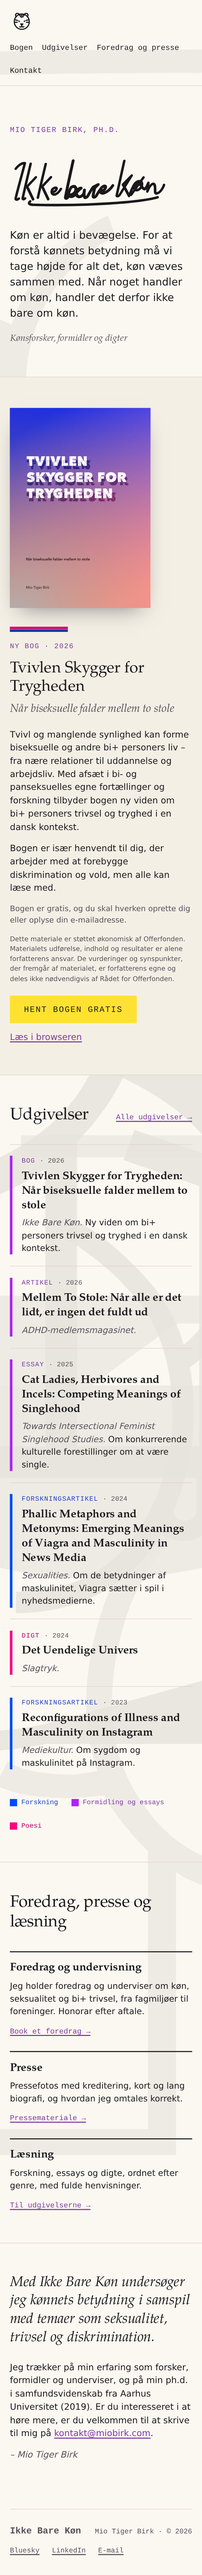
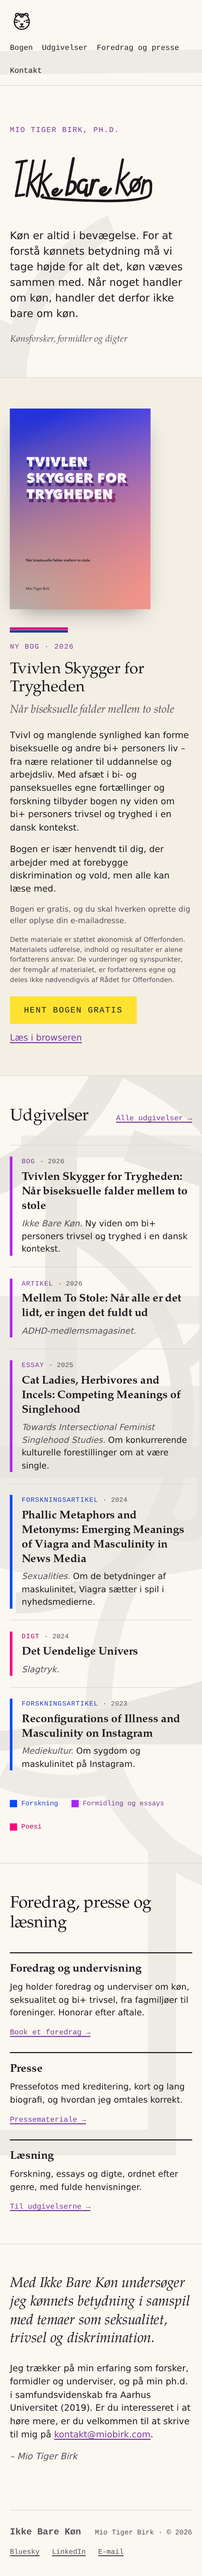
A researched hand for the tag
Ole asked for a better tag style, researched. Three research passes
(handstyle schools, the elegant-monoline calligraffiti register, and
per-letter tag construction) produced a style spec, recorded in
TYPOGRAPHY-COLOUR.md: one constant lean with parallel straight stems
on an even metre, downstroke-first ductus with visible retraces,
platform-serif I, one signature diagonal shared by every k arm and
the oe slash, blunt stops except two whips, and a single finish move
in the n's leg sweeping back under the line. The register is
Copenhagen: New York letter logic executed with graphic precision,
which suits both the client and the studio. The reversed-3 e from the
American canon was tried and rejected: it reads as the digit 3 in
lowercase Danish text; the cursive loop e stays.

Claude-Session: https://claude.ai/code/session_01J3ibStbM354Uyysr7SDB7m

diff --git a/design/directions/retning-7-overlappet.html b/design/directions/retning-7-overlappet.html
@@ -110,17 +110,19 @@ a:focus-visible{outline:2.5px solid var(--ink);outline-offset:3px}
 @keyframes fesseSlow{to{transform:translate3d(0,18rem,0)}}
 @keyframes fesseMid{to{transform:translate3d(0,44rem,0)}}
 @media (prefers-reduced-motion: reduce){.fesse-layer{animation:none!important}}
-/* The hero title: Ikke bare køn written as a handstyle tag with a
-   thick black marker, drawn on quickly at load. Ten strokes: whole
-   words run continuously with the pen lifting only where a real hand
-   lifts (the k arms, the slash of the oe, the return underline).
-   Pure SVG and CSS, no JavaScript: each path carries pathLength="1",
-   so a dash offset animated 1 to 0 draws the stroke; --d is its
-   duration, --t its start. The emphasis on "bare" is a change of
-   style: the word is written in one unbroken stroke, larger, looser
-   and pressed harder, nothing is added. */
+/* The hero title: Ikke bare køn as a handstyle tag, drawn on quickly
+   at load. The hand follows the researched craft rules (see
+   TYPOGRAPHY-COLOUR.md, "The hand"): one constant lean from the skew,
+   parallel stems on an even metre, downstroke-first ductus with
+   visible retraces, one signature diagonal shared by every k arm and
+   the slash of the oe, blunt stops everywhere except two whips, and
+   exactly one finish move: the n's leg sweeping back under the whole
+   line. Pure SVG and CSS, no JavaScript: each path carries
+   pathLength="1", so a dash offset animated 1 to 0 draws the stroke;
+   --d is its duration, --t its start. The emphasis on "bare" is a
+   change of style: larger, looser, pressed harder, nothing added. */
 .hero{position:relative;overflow:hidden}
-.tagline{display:block;width:min(46rem,94%);height:auto;transform:rotate(-2deg) skewX(-8deg);margin-left:-.5rem}
+.tagline{display:block;width:min(46rem,94%);height:auto;transform:skewX(-8deg);margin-left:-.5rem}
 .tagline path{fill:none;stroke:var(--ink);stroke-width:13;stroke-linecap:round;stroke-linejoin:round;
   stroke-dasharray:1;stroke-dashoffset:1;
   animation:tagdraw var(--d,.2s) linear var(--t,0s) forwards}
@@ -286,59 +288,29 @@ footer .flinks{display:flex;gap:1.5rem}
   <section class="hero">
     <div class="wrap">
       <p class="kicker">Mio Tiger Birk, ph.d.</p>
-      <h1><span class="sr-only">Ikke bare køn</span><svg class="tagline" viewBox="0 0 880 310" aria-hidden="true" focusable="false" xmlns="http://www.w3.org/2000/svg">
+      <h1><span class="sr-only">Ikke bare køn</span><svg class="tagline" viewBox="0 0 900 320" aria-hidden="true" focusable="false" xmlns="http://www.w3.org/2000/svg">
         <g>
-          <path pathLength="1" style="--d:.1s;--t:0s" d="M 44 84 C 58 64 76 54 88 58 C 78 122 66 186 60 232 C 58 242 66 246 76 238"/>
-          <path pathLength="1" style="--d:.07s;--t:.11s" d="M 118 62 C 108 138 100 196 96 234 C 95 242 102 244 108 238"/>
-          <path pathLength="1" style="--d:.07s;--t:.19s" d="M 152 132 L 112 178 L 150 244"/>
-          <path pathLength="1" style="--d:.07s;--t:.27s" d="M 196 66 C 186 142 178 198 174 236"/>
-          <path pathLength="1" style="--d:.07s;--t:.35s" d="M 230 134 L 190 180 L 228 246"/>
-          <path pathLength="1" style="--d:.07s;--t:.43s" d="M 244 196 C 258 184 270 188 264 200 C 258 210 246 212 242 202 C 240 216 250 226 264 222 C 274 218 282 208 288 196"/>
+          <path pathLength="1" style="--d:.09s;--t:0s" d="M 44 66 L 96 58 L 74 62 L 66 242 L 106 236"/>
+          <path pathLength="1" style="--d:.06s;--t:.1s" d="M 130 58 L 122 242"/>
+          <path pathLength="1" style="--d:.06s;--t:.17s" d="M 176 128 L 134 176 L 178 244"/>
+          <path pathLength="1" style="--d:.06s;--t:.24s" d="M 190 58 L 182 242"/>
+          <path pathLength="1" style="--d:.06s;--t:.31s" d="M 234 128 L 196 172 L 238 244"/>
+          <path pathLength="1" style="--d:.07s;--t:.38s" d="M 258 214 C 272 200 284 204 278 216 C 272 226 260 228 256 218 C 254 232 264 242 278 238 C 288 234 296 224 302 212"/>
         </g>
         <g class="em">
-          <path pathLength="1" style="--d:.35s;--t:.55s" d="M 336 54 C 328 122 320 192 316 236
-             C 315 245 322 248 328 241
-             C 330 214 334 196 342 188
-             C 358 180 370 192 364 210
-             C 358 226 340 232 326 226
-             C 336 238 350 240 360 232
-             C 372 216 382 202 392 196
-             C 380 194 372 204 370 218
-             C 370 234 382 242 394 238
-             C 406 234 412 220 410 206
-             C 409 220 410 232 414 240
-             C 417 247 424 246 430 238
-             C 440 216 448 200 454 192
-             L 478 180 L 462 197
-             C 460 212 458 226 458 238
-             C 460 246 468 246 474 238
-             C 484 218 492 202 500 194
-             C 512 184 522 190 516 202
-             C 510 214 496 216 492 206
-             C 490 220 500 228 514 224
-             C 530 218 544 206 554 188"/>
+          <path pathLength="1" style="--d:.12s;--t:.5s" d="M 340 46 L 330 236 L 334 172 C 358 160 374 176 370 200 C 366 224 346 236 332 230"/>
+          <path pathLength="1" style="--d:.11s;--t:.63s" d="M 424 162 C 406 152 388 162 386 190 C 384 216 400 230 416 222 C 426 217 430 204 430 186 L 430 232 C 431 241 439 242 446 234"/>
+          <path pathLength="1" style="--d:.07s;--t:.75s" d="M 458 160 L 454 232 L 464 170 C 470 160 480 156 488 162"/>
+          <path pathLength="1" style="--d:.08s;--t:.83s" d="M 508 208 C 524 192 538 196 531 210 C 524 222 510 224 506 212 C 504 228 516 240 532 235 C 544 231 552 220 558 206"/>
         </g>
         <g>
-          <path pathLength="1" style="--d:.3s;--t:.95s" d="M 600 64 C 592 136 584 198 580 234
-             C 578 244 586 246 594 238
-             L 646 140
-             L 606 184
-             L 644 244
-             C 652 214 658 198 664 186
-             C 674 170 688 166 698 174
-             C 708 182 706 200 694 210
-             C 682 220 668 216 666 202
-             C 664 188 676 178 690 180
-             C 702 196 712 212 722 212
-             C 730 200 734 188 736 180
-             C 736 194 736 210 736 224
-             C 744 196 756 182 766 188
-             C 774 194 774 212 776 228
-             C 778 240 792 238 804 224
-             C 812 214 816 204 818 194"/>
-          <path pathLength="1" style="--d:.05s;--t:1.27s" d="M 708 152 L 654 238"/>
+          <path pathLength="1" style="--d:.06s;--t:.95s" d="M 600 52 L 592 228"/>
+          <path pathLength="1" style="--d:.06s;--t:1.02s" d="M 642 122 L 604 166 L 646 232"/>
+          <path pathLength="1" style="--d:.09s;--t:1.09s" d="M 690 158 C 672 152 660 166 662 190 C 664 212 680 222 694 214 C 706 207 710 190 704 172 C 700 160 694 154 690 158"/>
+          <path pathLength="1" style="--d:.05s;--t:1.19s" d="M 652 238 L 712 144"/>
+          <path pathLength="1" style="--d:.04s;--t:1.25s" d="M 728 160 L 724 228"/>
+          <path pathLength="1" style="--d:.3s;--t:1.3s" d="M 726 184 C 734 164 750 156 760 166 C 768 174 768 194 770 210 C 772 226 770 236 762 244 C 730 262 640 270 520 268 C 380 266 260 258 210 250 C 200 248 198 242 206 238"/>
         </g>
-        <path pathLength="1" style="--d:.28s;--t:1.35s" d="M 792 256 C 700 280 420 288 152 272 C 132 270 126 262 136 254"/>
       </svg></h1>
       <p class="standfirst">Køn er altid i bevægelse. For at forstå kønnets
       betydning må vi tage højde for alt det, køn væves sammen med. Når noget

diff --git a/design/TYPOGRAPHY-COLOUR.md b/design/TYPOGRAPHY-COLOUR.md
@@ -258,6 +258,53 @@ ribbons keep crossing.
   need HTTP, so the screenshot runner now serves the design directory
   over localhost instead of file://.
 
+## The hand, researched (Ole, 2026-07-16)
+
+Ole asked for a better tag style, researched. Three parallel research
+passes were run: the major handstyle schools (New York Broadway
+Elegant and Brooklyn, Philadelphia wickeds via Francois Chastanet's
+ductus analysis, LA cholo block and script, Copenhagen, Amsterdam
+calligraffiti), the elegant-monoline register (Shoe Meulman's
+calligraffiti school, Faust, Retna, the Amsterdamse Krulletter), and
+letter-by-letter tag construction for exactly the letters of "Ikke
+bare koen". Key verified sources: francoischastanet.com/philadelphia-
+handstyles (ductus: downstroke-first from the top line, visible pen
+lifts and retraces as style features, monolinearity as authentic
+preference), Eye Magazine and interviews on Shoe Meulman
+("directness in the whole, finesse in the details"; Fraktur's
+rhythmic stroke metre), SprayShift and The Artist Block craft rules
+(one slant, one baseline logic, one finish move only; structure
+before flair), and graffiti.dk on Bates for the Copenhagen register:
+New York letter logic executed with Danish graphic precision.
+
+The chosen style out of that synthesis: a Copenhagen-clean monoline
+hand. Concretely, in the shipped drawing:
+
+- One constant lean (skewX(-8deg), within the researched 6 to 12
+  degree window), every stem parallel and straight; the curve-inside-
+  a-stroke wobble of earlier drafts is gone (a fast hand cannot
+  S-curve mid-stroke).
+- A vertical metre: the stems of I, k, k, b, k fall at near-even
+  intervals, the Fraktur picket fence; x-height is half the ascender.
+- A slightly rising baseline drawn into the coordinates (each word's
+  baseline a step higher), replacing the previous rotation.
+- Downstroke-first ductus with visible retraces (the b re-traces its
+  stem before the bowl; the I is one continuous bar-stem-bar Z with
+  platform serifs, the Broadway Elegant identifier).
+- One signature diagonal: all three k arms and the oe slash share the
+  same angle; the slash overshoots the bowl at both ends.
+- Terminals: blunt stops on stems; exactly two whips (the e of bare,
+  the n exit); one finish move, the n's leg sweeping back under the
+  whole line. No arrows, no stars, no crown: restraint is the DFV
+  and Soulellis register, and the craft sources' own anti-rule is
+  devices-before-structure.
+- Emphasis on "bare" unchanged in principle: larger, looser, pressed
+  harder (stroke 15 vs 13).
+
+The full agent reports with all sources are recorded in the session
+transcript; the durable rules above are what future hand-drawn work
+should reuse.
+
 ## The hand (Ole, 2026-07-15)
 
 The hero and the masthead moved from type to a hand. Both are inline
